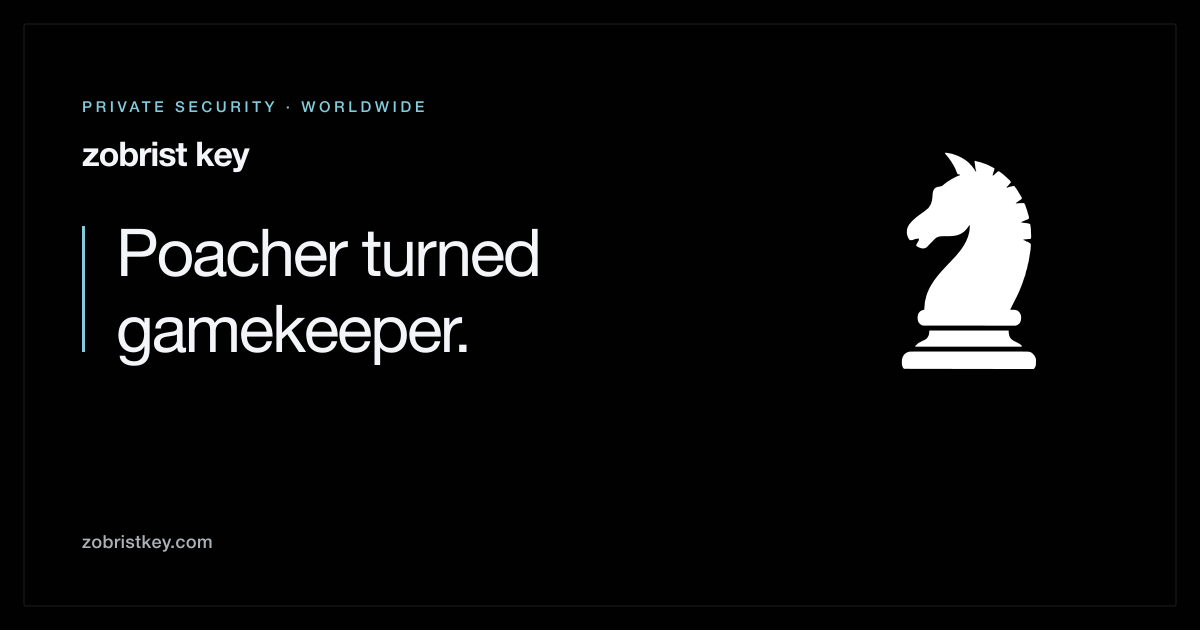
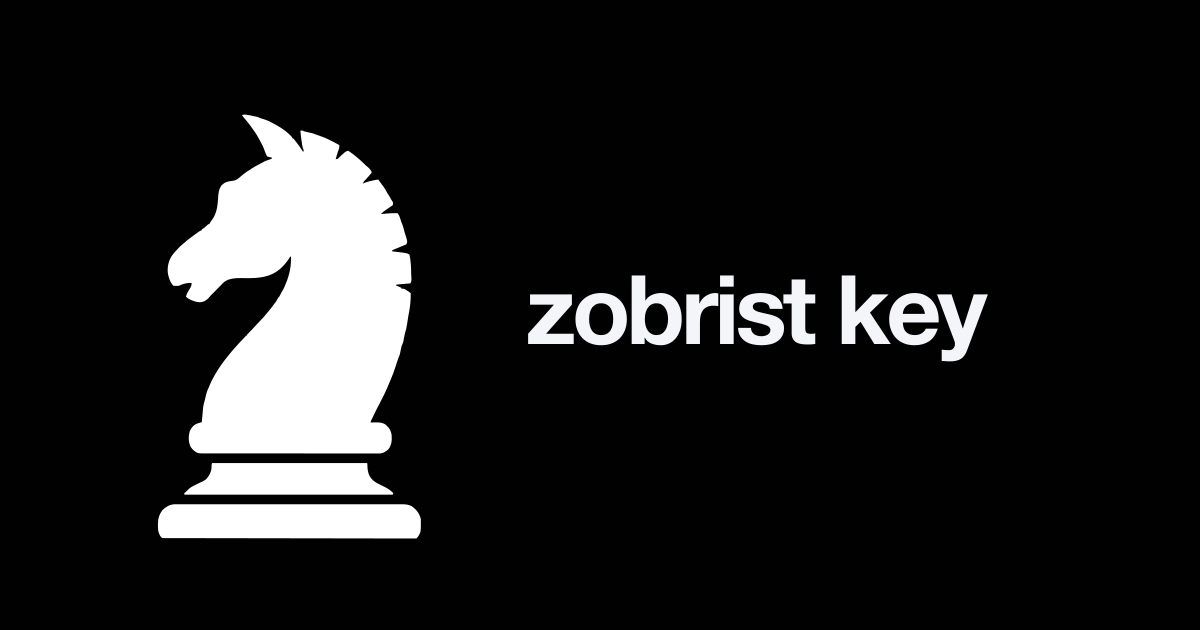
Simplify Open Graph image

Changed region(s): [[0.0617, 0.1508, 0.8633, 0.8746], [0.2467, 0.1508, 0.37, 0.181]]

diff --git a/index.html b/index.html
@@ -17,13 +17,13 @@
   <meta property="og:image:type" content="image/png">
   <meta property="og:image:width" content="1200">
   <meta property="og:image:height" content="630">
-  <meta property="og:image:alt" content="Zobrist Key — Poacher turned gamekeeper.">
+  <meta property="og:image:alt" content="Zobrist Key knight logo and wordmark.">
 
   <meta name="twitter:card" content="summary_large_image">
   <meta name="twitter:title" content="Zobrist Key — Poacher turned gamekeeper.">
   <meta name="twitter:description" content="An elite protective-services practice. We evaluate the life, not just the locks — residences, routines and the people around you.">
   <meta name="twitter:image" content="https://zobristkey.com/assets/og-image.png">
-  <meta name="twitter:image:alt" content="Zobrist Key — Poacher turned gamekeeper.">
+  <meta name="twitter:image:alt" content="Zobrist Key knight logo and wordmark.">
   <link rel="icon" href="assets/favicon.svg" type="image/svg+xml">
 
   <!-- Set .js before first paint so reveal-hiding only applies when JS is